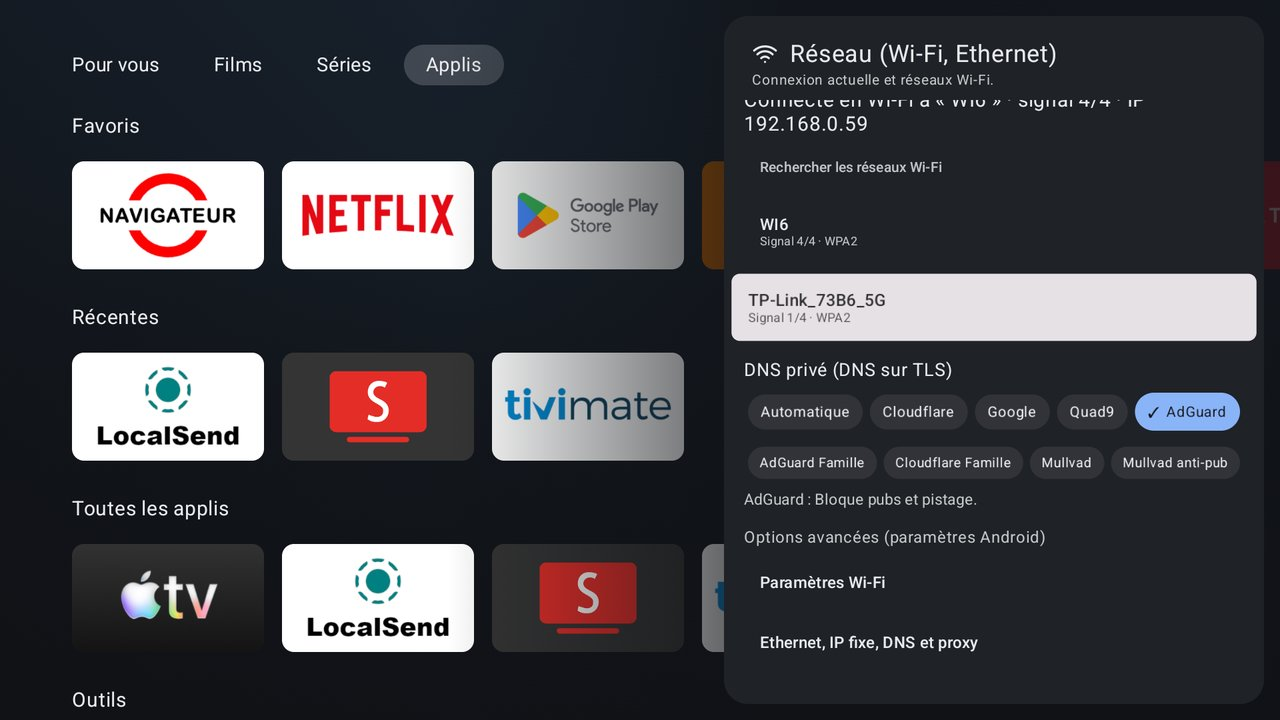
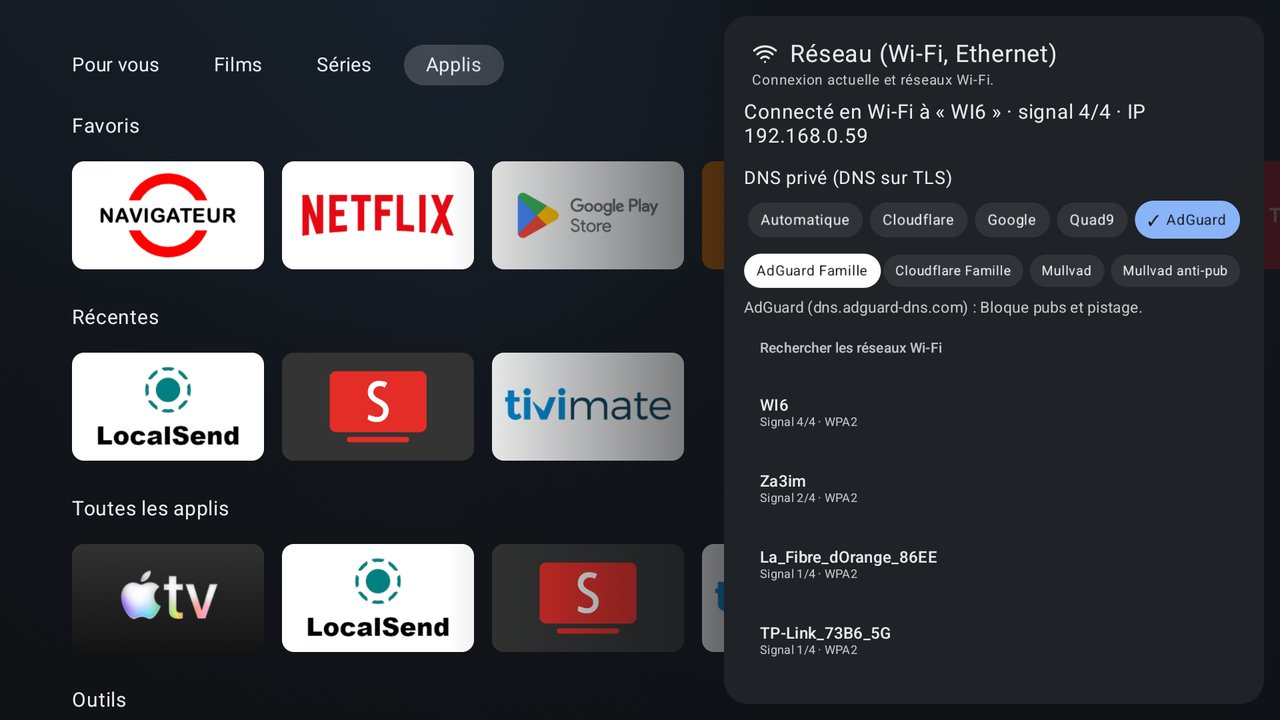
Réseau : DNS privé au-dessus de la liste Wi-Fi (plus de saut quand la recherche se termine)

diff --git a/app/src/main/java/com/vantaflow/kairo/network/NetworkUi.kt b/app/src/main/java/com/vantaflow/kairo/network/NetworkUi.kt
@@ -128,6 +128,9 @@ fun NetworkSettings(monitor: NetworkMonitor, stateFlow: Flow<NetState>) {
 
     LazyColumn(verticalArrangement = Arrangement.spacedBy(12.dp)) {
         item { Text(stateText(state), color = OnBackground, fontSize = 20.sp) }
+        // Au-dessus de la liste Wi-Fi : le résultat de la recherche arrive après coup et ferait
+        // sauter le DNS (et le focus) vers le bas.
+        item(key = "dns") { PrivateDnsPicker() }
         message?.let { item { Text(it, color = OnBackgroundMuted) } }
         item {
             Button(onClick = {
@@ -197,7 +200,6 @@ fun NetworkSettings(monitor: NetworkMonitor, stateFlow: Flow<NetState>) {
                 )
             }
         }
-        item { PrivateDnsPicker() }
         item { Text("Options avancées (paramètres Android)", color = OnBackgroundMuted, modifier = Modifier.padding(top = 8.dp)) }
         items(NetworkShortcuts, key = { it.title }) { s ->
             ListItem(selected = false, onClick = { context.openSettings(s) }, headlineContent = { Text(s.title) })
